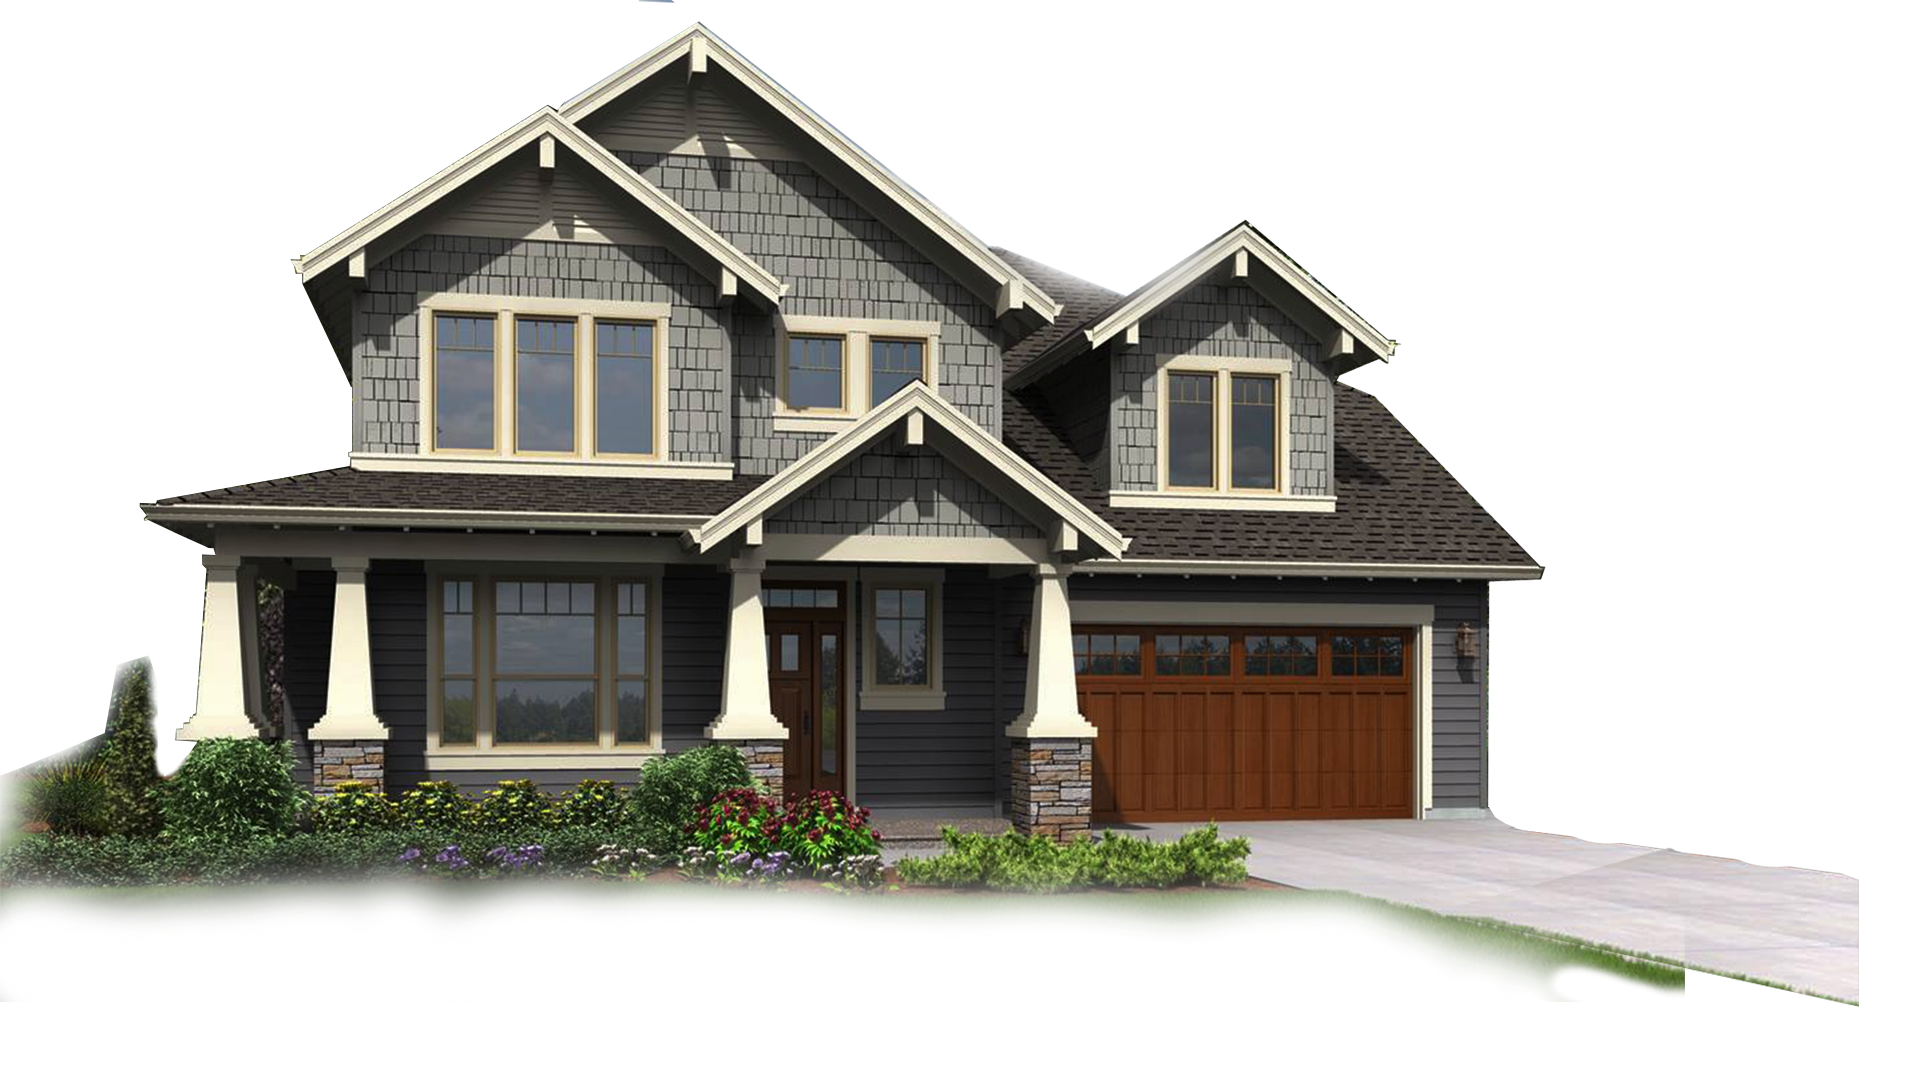
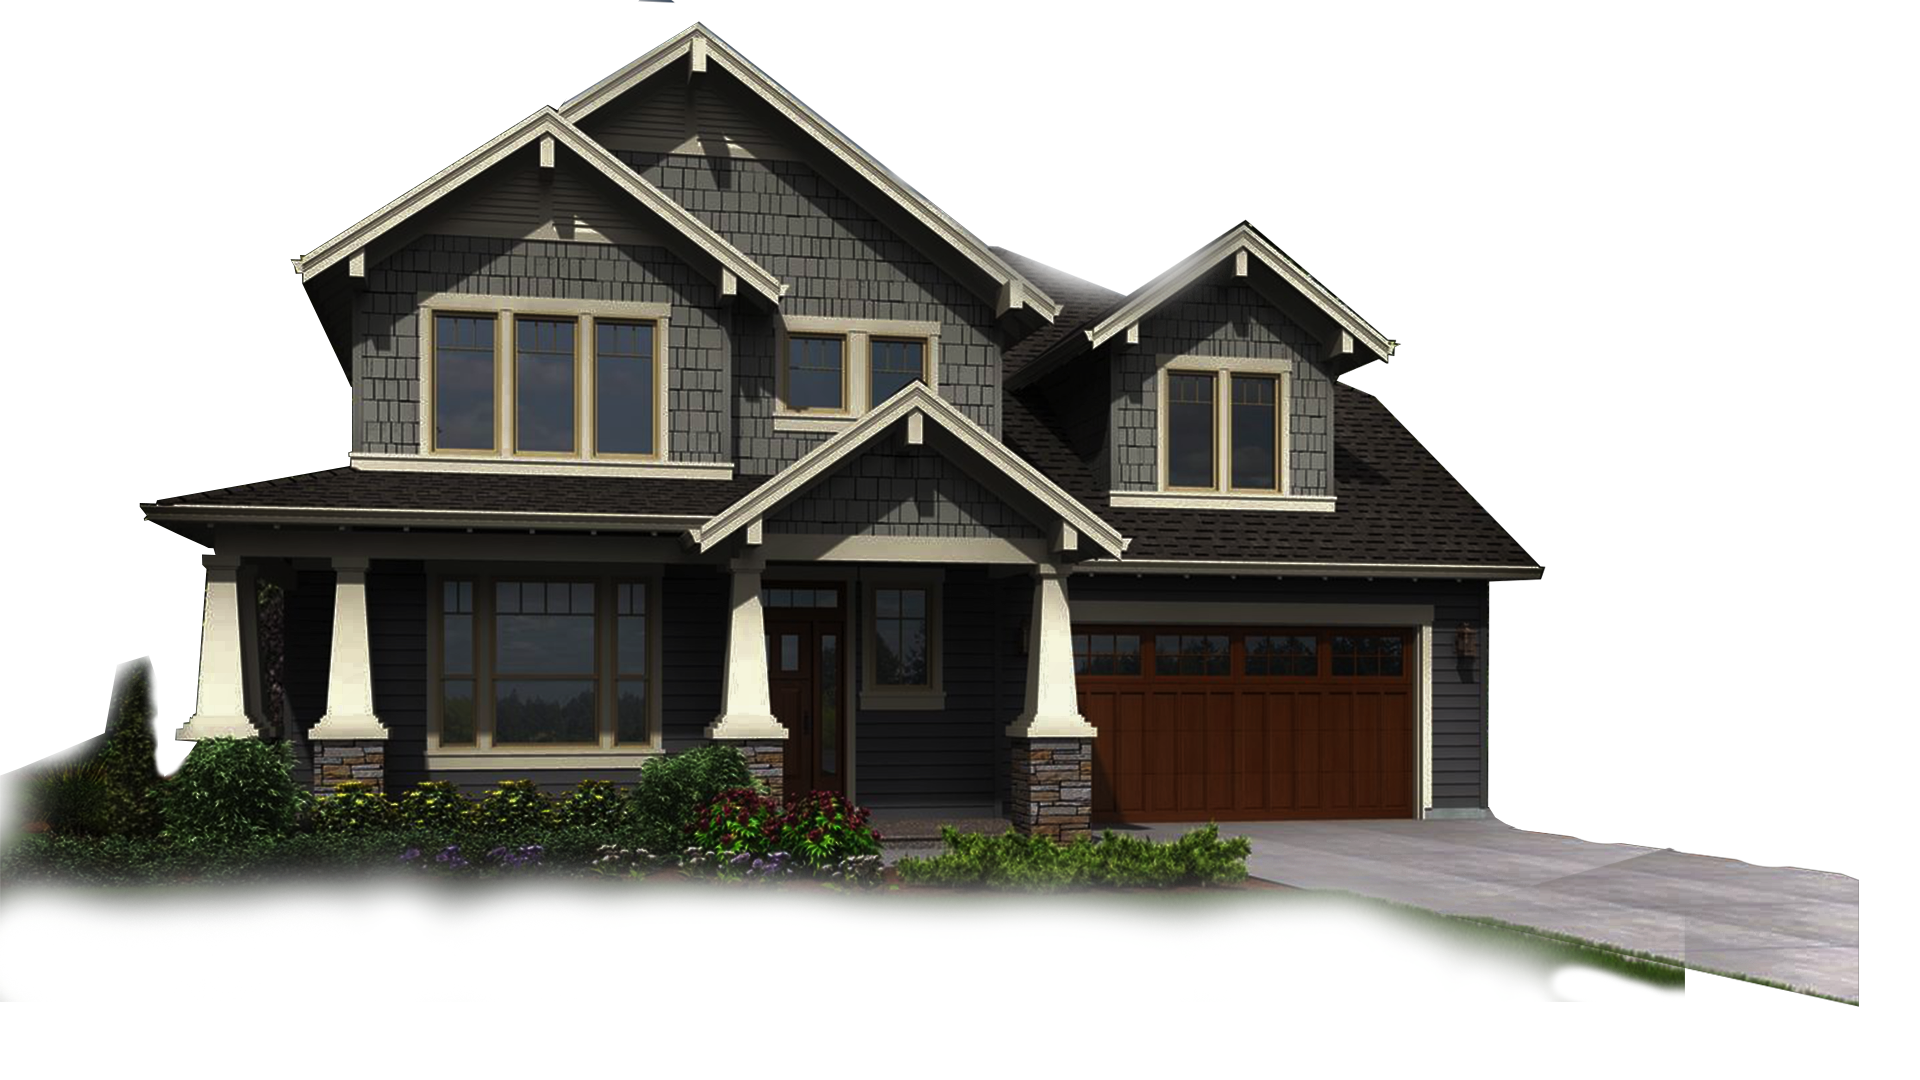
Mobile version

Changed region(s): [[0.0, 0.0, 0.9688, 0.9472]]

diff --git a/index.html b/index.html
@@ -253,7 +253,7 @@
 								 <!-- LAYER NR. 1 -->
 
 
-								<div class="tp-caption tp-resizeme" data-height="none" data-hoffset="['0','0','70','60']" data-responsive_offset="on" data-start="2500" data-transform_idle="o:1;" data-transform_in="x:right;s:1500;e:Power3.easeOut;" data-transform_out="opacity:0;s:1500;e:Power4.easeIn;s:1500;e:Power4.easeIn;" data-voffset="['0','0','211','25']" data-whitespace="nowrap" data-width="none" data-x="['center','center','center','center']" data-y="['center','center','middle','bottom']" id="slide-251-layer-1" style="z-index: 5;"><img alt="" data-hh="['1080px','1080px','300px','210px']" data-no-retina="" data-ww="['1920px','1920px','500px','350px']" height="1080" src="images/homepage/house.png" width="1920">
+								<div class="tp-caption tp-resizeme" data-height="none" data-hoffset="['0','0','0','0']" data-responsive_offset="on" data-start="2500" data-transform_idle="o:1;" data-transform_in="x:right;s:1500;e:Power3.easeOut;" data-transform_out="opacity:0;s:1500;e:Power4.easeIn;s:1500;e:Power4.easeIn;" data-voffset="['0','0','0','0']" data-whitespace="nowrap" data-width="none" data-x="['center','center','center','center']" data-y="['center','center','middle','bottom']" id="slide-251-layer-1" style="z-index: 5;"><img alt="" data-hh="['1080px','1080px','563px','563px']" data-no-retina="" data-ww="['1920px','1920px','1000px','1000px']" height="1080" src="images/homepage/house.png" width="1920">
 								</div>
 								<!-- LAYER NR. 2
                           <div class="tp-caption   tp-resizeme"
@@ -277,7 +277,7 @@
 								<!-- LAYER NR. 3 -->
 
 
-								<div class="tp-caption tp-resizeme" data-height="none" data-hoffset="['0','0','-110','-60']" data-responsive_offset="on" data-start="2750" data-transform_idle="o:1;" data-transform_in="x:right;s:1500;e:Power3.easeOut;" data-transform_out="opacity:0;s:1500;e:Power4.easeIn;s:1500;e:Power4.easeIn;" data-voffset="['0','0','590','20']" data-whitespace="nowrap" data-width="none" data-x="['center','center','center','center']" data-y="['center','center','top','bottom']" id="slide-251-layer-3" style="z-index: 7;"><img alt="" data-hh="['1080px','1080px','251px','213px']" data-no-retina="" data-ww="['1920px','1920px','200px','170px']" height="1080" src="images/homepage/tree.png" width="1920">
+								<div class="tp-caption tp-resizeme" data-height="none" data-hoffset="['0','0','-110','-60']" data-responsive_offset="on" data-start="2750" data-transform_idle="o:1;" data-transform_in="x:right;s:1500;e:Power3.easeOut;" data-transform_out="opacity:0;s:1500;e:Power4.easeIn;s:1500;e:Power4.easeIn;" data-voffset="['0','0','0','0']" data-whitespace="nowrap" data-width="none" data-x="['center','center','center','center']" data-y="['center','center','top','bottom']" id="slide-251-layer-3" style="z-index: 7;"><img alt="" data-hh="['1080px','1080px','563px','563px']" data-no-retina="" data-ww="['1920px','1920px','1000px','1000px']" height="1080" src="images/homepage/tree.png" width="1920">
 								</div>
 								<!-- LAYER NR. 4
                           <div class="tp-caption   tp-resizeme"
@@ -301,7 +301,7 @@
 								<!-- LAYER NR. 5 -->
 
 
-								<div class="tp-caption tp-resizeme" data-height="none" data-hoffset="['0','0','127','58']" data-responsive_offset="on" data-start="3000" data-transform_idle="o:1;" data-transform_in="x:right;s:1500;e:Power3.easeOut;" data-transform_out="opacity:0;s:1500;e:Power4.easeIn;s:1500;e:Power4.easeIn;" data-voffset="['0','0','622','529']" data-whitespace="nowrap" data-width="none" data-x="['center','center','left','left']" data-y="['center','center','top','top']" id="slide-251-layer-5" style="z-index: 9;"><img alt="" data-hh="['1080px','1080px','225px','173px']" data-no-retina="" data-ww="['1920px','1920px','130px','100px']" height="1080" src="images/homepage/ranch.png" width="1920">
+								<div class="tp-caption tp-resizeme" data-height="none" data-hoffset="['0','0','-60','-60']" data-responsive_offset="on" data-start="3000" data-transform_idle="o:1;" data-transform_in="x:right;s:1500;e:Power3.easeOut;" data-transform_out="opacity:0;s:1500;e:Power4.easeIn;s:1500;e:Power4.easeIn;" data-voffset="['0','0','0','210']" data-whitespace="nowrap" data-width="none" data-x="['center','center','left','left']" data-y="['center','center','top','top']" id="slide-251-layer-5" style="z-index: 9;"><img alt="" data-hh="['1080px','1080px','563px','563px']" data-no-retina="" data-ww="['1920px','1920px','1000px','1000px']" height="1080" src="images/homepage/ranch.png" width="1920">
 								</div>
 								<!-- LAYER NR. 6
                           <div class="tp-caption   tp-resizeme"
@@ -326,7 +326,7 @@
 								<!-- LAYER NR. 7 -->
 
 
-								<div class="tp-caption WebProduct-Title tp-resizeme font-raleway font-white" data-fontsize="['90','90','75','75']" data-fontweight="300" data-height="none" data-hoffset="['30','30','200','80']" data-lineheight="['90','90','75','70']" data-responsive_offset="on" data-splitin="none" data-splitout="none" data-start="1000" data-transform_idle="o:1;" data-transform_in="x:-50px;opacity:0;s:1000;e:Power2.easeOut;" data-transform_out="opacity:0;s:1500;e:Power4.easeIn;s:1500;e:Power4.easeIn;" data-voffset="['-80','-80','137','130']" data-whitespace="nowrap" data-width="none" data-x="['left','left','left','left']" data-y="['middle','middle','top','top']" id="slide-251-layer-7" style="z-index: 11; white-space: nowrap;">
+								<div class="tp-caption WebProduct-Title tp-resizeme font-raleway font-white" data-fontsize="['90','90','40','40']" data-fontweight="300" data-height="none" data-hoffset="['30','30','60','60']" data-lineheight="['90','90','40','40']" data-responsive_offset="on" data-splitin="none" data-splitout="none" data-start="1000" data-transform_idle="o:1;" data-transform_in="x:-50px;opacity:0;s:1000;e:Power2.easeOut;" data-transform_out="opacity:0;s:1500;e:Power4.easeIn;s:1500;e:Power4.easeIn;" data-voffset="['-80','-80','137','130']" data-whitespace="nowrap" data-width="none" data-x="['left','left','left','left']" data-y="['middle','middle','top','top']" id="slide-251-layer-7" style="z-index: 11; white-space: nowrap;">
 									CARRINGTON<br>
 									RANCH<br>
 									POA
@@ -846,7 +846,7 @@ presented. Monies were used to file a lien on property for which fees had not be
             			<div class="blog-sect3-text-cont">
             			<div class="pos-v-center">
             				<div class="post2-prev-title">
-                      <h3><a href="forum.crpoa-tx.com/mm">Click to go to view the Meeting Minutes Forum</a></h3>
+                      <h3><a href="forum.crpoa-tx.com/mm">Click to go to the Meeting Minutes Forum</a></h3>
                     </div>
 
             			</div>
